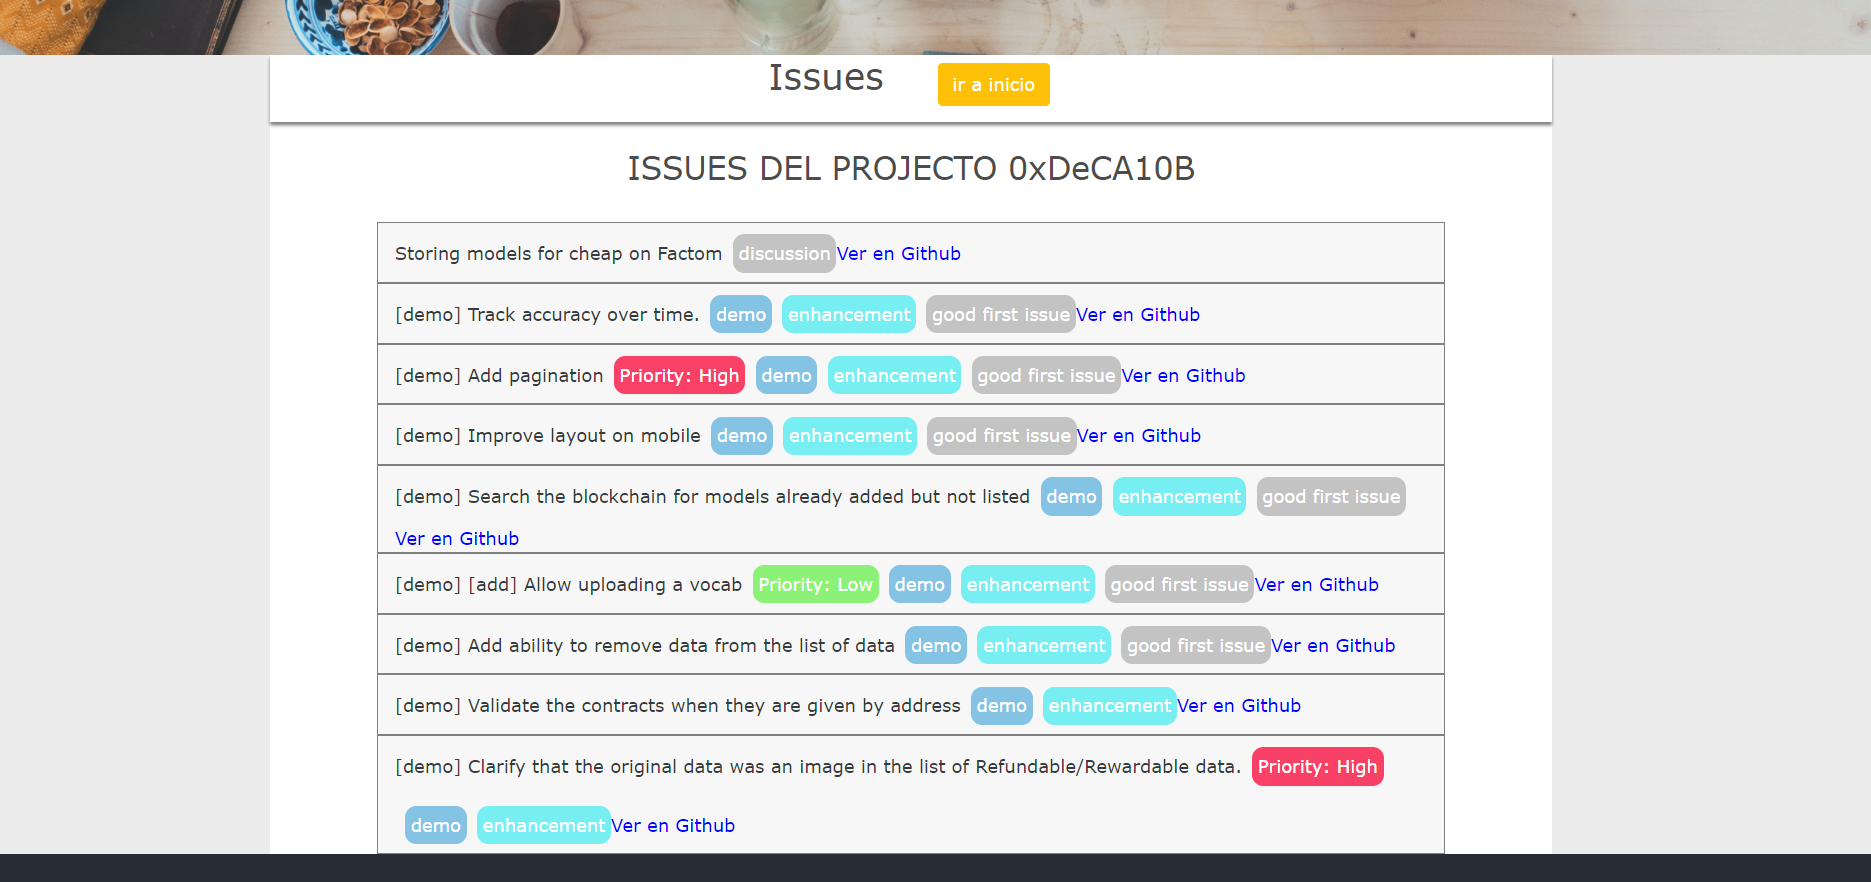
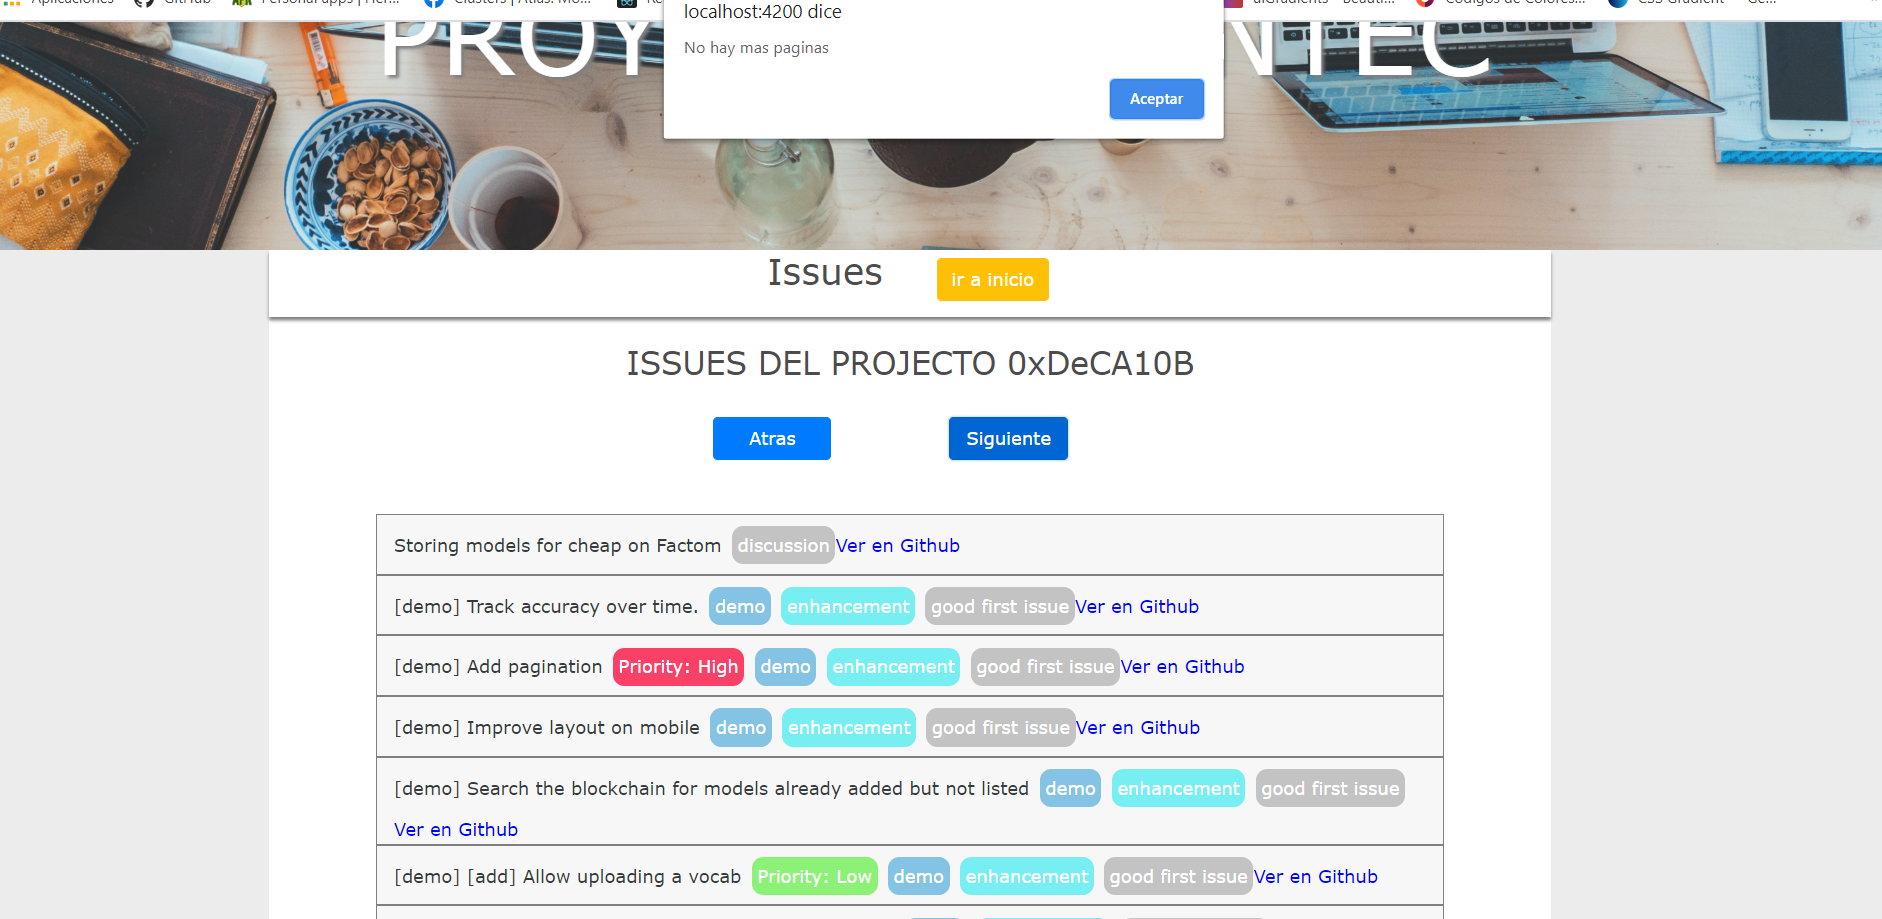
paginado issues

diff --git a/src/app/pages/issues/issues.component.ts b/src/app/pages/issues/issues.component.ts
@@ -15,10 +15,12 @@ export class IssuesComponent implements OnInit {
   public aparecerContenedor:Boolean;
   public usuarioGit:String; //variable donde guardaremos el nombre del usuario del git
   public repoGit:String; //variable donde guardaremos el nombre del projecto qeu hemos escogido para ver las issues
+  public pagina:number;
 
   constructor() { }
 
   ngOnInit(): void {
+    this.pagina = 1;
     this.aparecerContenedor = false
     //dividimos la url para coger los aprametros del nombre del usuario y del nombre del repo para buscar las issues
     this.usuarioGit = window.location.href.split('/')[4];
@@ -26,13 +28,13 @@ export class IssuesComponent implements OnInit {
     console.log(this.usuarioGit);
     console.log(this.repoGit);
 
-    this.funcionFetch();
+    this.funcionFetch(this.pagina);
+
   };
 
   //funcion fetch
-  funcionFetch(){
-   
-    getGitData(enviroment.rutarepos+this.usuarioGit+'/'+this.repoGit+'/issues')
+  funcionFetch(pagina){
+    getGitData(enviroment.rutarepos+this.usuarioGit+'/'+this.repoGit+`/issues?page=${pagina}&per_page=30`)
     .then((response:any) => {
       console.log(response)
 
@@ -43,9 +45,43 @@ export class IssuesComponent implements OnInit {
         alert('No hay issues')
         window.location.href = '/';
       }
-      
     })
     .catch(err => console.log(err))
   }
+
+
+  clickAtras(){
+    this.pagina --;
+
+    if(this.pagina < 1){
+      alert('No puedes hechar mas atras');
+      this.pagina = 1;
+
+    }else{
+      this.funcionFetch(this.pagina);
+      console.log(this.pagina);
+    }
+  };
+
+  clickSiguiente(){
+
+    if(this.arrayIssues.length < 30){
+      alert('No hay mas paginas')
+    }else{
+      this.pagina ++;
+      this.funcionFetch(this.pagina);
+      console.log(this.pagina);
+    }
+
+  };
+
+  // mostrarDatos(){
+  //   getGitData(enviroment.rutarepos+this.usuarioGit+'/'+this.repoGit+'/issues?page=1&per_page=30')
+  //   .then((response:any) => {
+  //     console.log(response)
+
+  //   })
+  //   .catch(err => console.log(err))
+  // }
 
 }

diff --git a/src/app/pages/issues/issues.component.html b/src/app/pages/issues/issues.component.html
@@ -14,7 +14,16 @@
       <h3 class="text-center">ISSUES DEL PROJECTO {{repoGit}}</h3>
     </div>
 
-    <div class="col-12" *ngIf="aparecerContenedor">
+    <div class="col-12">
+      <div class="row justify-content-center">
+        <div class="col-4">
+          <input (click)="clickAtras()" class="btn btn-primary" style="width: 30%;" type="button" value="Atras" />
+          <input (click)="clickSiguiente()" class="btn btn-primary" style="width: 30%; margin-left: 30%;" type="button" value="Siguiente"/>
+        </div>
+      </div>
+    </div>
+
+    <div class="col-12 mt-5" *ngIf="aparecerContenedor">
       <div class="row justify-content-center">
         <div class="col-10 divIssues" *ngFor="let index of arrayIssues">
           <a class="text-dark" [routerLink]="['/comentarios',usuarioGit,repoGit,index.number]">{{index.title}}</a>

diff --git a/README.md b/README.md
@@ -35,23 +35,36 @@ El proyecto busca usuarios del git y pinchando en cada repositorio mostraria las
 <img src="https://github.com/crislaez/Proyecto_Irontec/blob/master/src/assets/foto_proyecto_6.PNG" />
 <hr>
 
--4 podemos pinchar en 'Ver repo en github' que nos llevaria al repo en el mismo github,  o podemos 
-  dar a ver 'Ver issues' y nos llevara a la pagina /issues del mismo projecto, donde nos los mostrara, si no tiene issues, nos avisara con un alert y nos redireccionara a la pagina anterior para pedir el nombre del usuario del git.
-  <br>
+-4 los isues se mostraran de 30 en 30, si damos a siguiente nos mostraria otros 30, 
+  y si damos para atras nos mostraria los 30 anteriores (si se intenta ir mas atras de la pagina 1 no dejara y nos avisara con un alert, al igual que si estamos en la ultima pagina e intentamos continuar)
+<br>
+<br>
+<img src="https://github.com/crislaez/Proyecto_Irontec/blob/master/src/assets/foto_proyecto_10.PNG" />
+<br>
+<br>
+<img src="https://github.com/crislaez/Proyecto_Irontec/blob/master/src/assets/foto_proyecto_11.PNG" />
+<br>
+<br>
+<img src="https://github.com/crislaez/Proyecto_Irontec/blob/master/src/assets/foto_proyecto_12.PNG" />
+<br>
 <br>
 <img src="https://github.com/crislaez/Proyecto_Irontec/blob/master/src/assets/foto_proyecto_7.PNG" />
+<hr>
+
+-5 podemos pinchar en 'Ver repo en github' que nos llevaria al repo en el mismo github,  o podemos 
+  dar a ver 'Ver issues' y nos llevara a la pagina /issues del mismo projecto, donde nos los mostrara, si no tiene issues, nos avisara con un alert y nos redireccionara a la pagina anterior para pedir el nombre del usuario del git.
 <br>
 <br>
 <img src="https://github.com/crislaez/Proyecto_Irontec/blob/master/src/assets/foto_proyecto_8.PNG" />
 <hr>
 
--5 si pinchamos en 'Ver en GitHub' del issue nos llevara a github para ver los comentarios, si pinchamos en el titulo, nos llevara a la pagina /comentarios con los comentarios de los usuarios
+-6 si pinchamos en 'Ver en GitHub' del issue nos llevara a github para ver los comentarios, si pinchamos en el titulo, nos llevara a la pagina /comentarios con los comentarios de los usuarios
 <br>
 <br>
 <img src="https://github.com/crislaez/Proyecto_Irontec/blob/master/src/assets/foto_proyecto_9.PNG" />
 <hr>
 
--6 si pinchamos en la foto del usuario del comentario nos llevara a su github
+-7 si pinchamos en la foto del usuario del comentario nos llevara a su github
 
  
 ### Donde pueden recibir ayuda los usuarios con el proyecto
